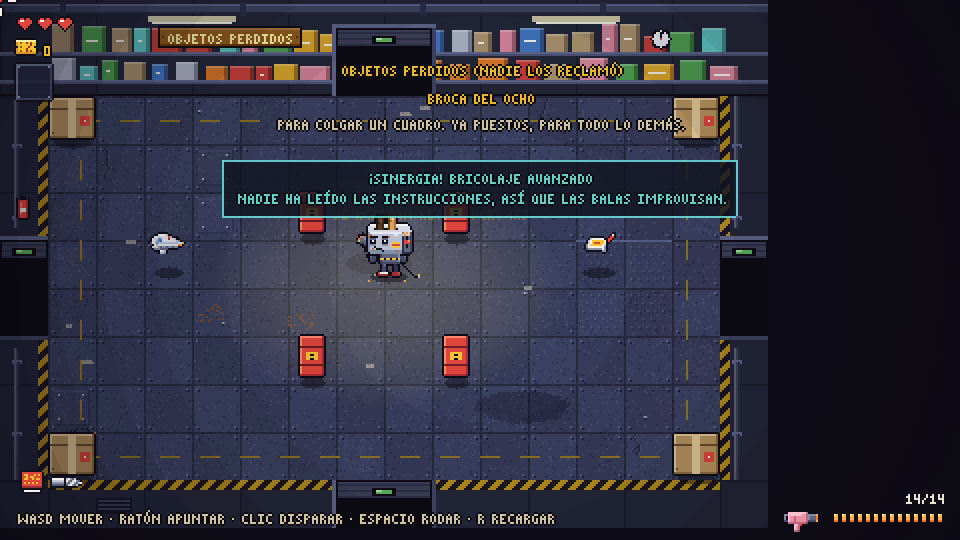
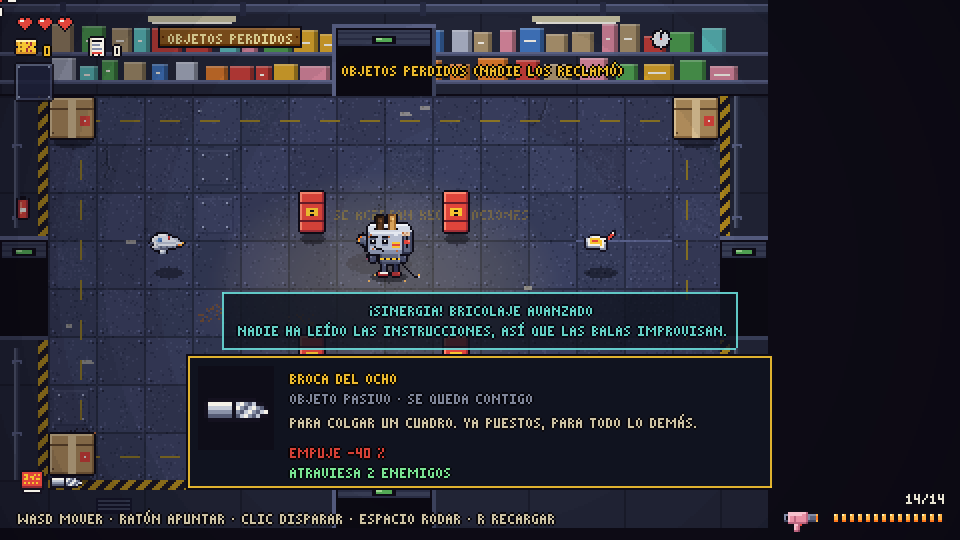
M5: ventana de descripción con lo que da y lo que quita cada objeto y los números de cada arma; M5 terminado; sesiones más largas (nota del humano)
Claude-Session: https://claude.ai/code/session_01LyCe1SFVh7Qnvzw655R3w9

diff --git a/src/render/GameScene.ts b/src/render/GameScene.ts
@@ -5,9 +5,10 @@ import { fontText, textWidth } from '../art/font.ts';
 import { CHEST_LOCKED_LINES, CHEST_NAME, CHEST_OPEN_LINES, SWAP_HINT, SYNERGY_LINE, TICKET_LINE, WEAPON_FOUND_LINES } from '../data/texts.ts';
 import { SYNERGIES } from '../data/synergies.ts';
 import { GOOD_NAMES, SHOPKEEPER } from '../data/shop.ts';
+import { activeLines, modifierLines, weaponLines, type EffectLine } from '../data/describe.ts';
 import { WEAPONS } from '../data/weapons.ts';
 import { ACTIVE_ITEMS, ITEMS } from '../data/items.ts';
-import { ACTIVE_LINES, activeHint, NO_CHARGE_LINE } from '../data/texts.ts';
+import { ACTIVE_LINES, ITEM_KIND_ACTIVE, ITEM_KIND_PASSIVE, ITEM_KIND_WEAPON, NO_CHARGE_LINE } from '../data/texts.ts';
 import { BOSS_CARD_SKIP, BOSS_CARD_SUBTITLE, BOSS_DOWN_LINE, BOSS_DOWN_STAMP, bossPhaseLabel, HEART_LINE, LIFT_LINE, WIN_HINT, WIN_STAMP, WIN_TITLE, winReport } from '../data/texts.ts';
 import { DEATH_STAMPS, DOORS_OPEN_LINES, DOWN_HINT, DOWN_STAMP, DOWN_TITLE, downReport, RESTOCK_LINE, TURBO_LINE } from '../data/texts.ts';
 import { doorCells } from '../sim/room.ts';
@@ -23,6 +24,23 @@ import { Controls } from './input.ts';
 import { addCanvasTexture, FONT, shadowTexture } from './textures.ts';
 
 export const VIEW_W = 480;
+
+/** The pieces of the description window (all HUD objects). */
+interface ItemCard {
+  plate: Phaser.GameObjects.Graphics;
+  icon: Phaser.GameObjects.Image;
+  name: Phaser.GameObjects.BitmapText;
+  kind: Phaser.GameObjects.BitmapText;
+  desc: Phaser.GameObjects.BitmapText;
+  lines: Phaser.GameObjects.BitmapText[];
+  /** Top and bottom of the window on screen while it is up (0 when it is not): the synergy plate goes next to it. */
+  top: number;
+  bottom: number;
+}
+
+/** Width of the description window, and the gap of its text column. */
+const CARD_W = 292;
+const CARD_TEXT_X = 50;
 
 /** How a pickup is drawn: its sprite and shadow, its name, and its price when it is for sale. */
 interface PickupView {
@@ -196,6 +214,8 @@ export class GameScene extends Phaser.Scene {
   /** A line the till says once the one it is saying ends. */
   private tillNext: string | null = null;
   private banner!: Phaser.GameObjects.BitmapText;
+  /** The description window that opens for a while when an item or a weapon is picked up. */
+  private card!: ItemCard;
   private shutters: Array<{ img: Phaser.GameObjects.Image; h: number }> = [];
   /** Red flash over the whole screen when hurt, and the heart that just broke. */
   private hurtFlash!: Phaser.GameObjects.Rectangle;
@@ -387,6 +407,16 @@ export class GameScene extends Phaser.Scene {
     this.banner = this.hud(this.add.bitmapText(VIEW_W / 2, 44, FONT, '', 8).setOrigin(0.5, 0));
     this.banner.setTint(0xf6c431).setAlpha(0);
     this.itemDesc = this.hud(this.add.bitmapText(VIEW_W / 2, 57, FONT, '', 8).setOrigin(0.5, 0).setCenterAlign().setMaxWidth(300)).setTint(0xd6cdb2).setAlpha(0);
+    this.card = {
+      plate: this.hud(this.add.graphics()).setAlpha(0),
+      icon: this.hud(this.add.image(0, 0, 'objeto-pila').setOrigin(0.5, 0.5).setScale(2)).setAlpha(0),
+      name: this.hud(this.add.bitmapText(0, 0, FONT, '', 8)).setTint(0xf6c431).setAlpha(0),
+      kind: this.hud(this.add.bitmapText(0, 0, FONT, '', 8)).setTint(0x858ea8).setAlpha(0),
+      desc: this.hud(this.add.bitmapText(0, 0, FONT, '', 8).setMaxWidth(CARD_W - CARD_TEXT_X - 8)).setTint(0xd6cdb2).setAlpha(0),
+      lines: Array.from({ length: 5 }, () => this.hud(this.add.bitmapText(0, 0, FONT, '', 8)).setAlpha(0)),
+      top: 0,
+      bottom: 0,
+    };
     this.synergyPlate = this.hud(this.add.rectangle(VIEW_W / 2, 80, 10, 10, 0x101420, 0.82).setOrigin(0.5, 0).setStrokeStyle(1, 0x69dbd8, 0.9)).setAlpha(0);
     this.synergyText = this.hud(this.add.bitmapText(VIEW_W / 2, 84, FONT, '', 8).setOrigin(0.5, 0).setCenterAlign().setMaxWidth(300)).setTint(0x69dbd8).setAlpha(0);
     this.itemIcons = [];
@@ -1284,6 +1314,8 @@ export class GameScene extends Phaser.Scene {
             this.sound2.play('arma');
             for (let i = 0; i < 12; i++) this.spark(e.x, e.y - 8, this.fx.range(0, Math.PI * 2), this.fx.range(40, 110), this.fx.int(0, 2));
             this.floatText(e.x, e.y - 22, fontText(this.fx.pick(WEAPON_FOUND_LINES)), 0xd6cdb2);
+            const wd = WEAPONS[e.weapon ?? ''];
+            if (wd) this.showCard(wd.look.sprite, wd.name, ITEM_KIND_WEAPON, wd.description, weaponLines(wd), 0xd6cdb2);
             if (e.total > 1 && !this.swapHinted) {
               this.swapHinted = true;
               this.hintT = 0;
@@ -1297,16 +1329,11 @@ export class GameScene extends Phaser.Scene {
           if (e.kind === 'objeto' || e.kind === 'activo') {
             // An item: a fanfare (a little higher than a weapon's), gold sparks, and its name and description up top.
             const act = e.kind === 'activo' ? ACTIVE_ITEMS[e.item ?? ''] : undefined;
-            const def = act ? { name: act.name, description: `${act.description}\n${activeHint(act.charges)}` } : ITEMS[e.item ?? ''];
+            const pas = e.kind === 'objeto' ? ITEMS[e.item ?? ''] : undefined;
             this.sound2.play('arma', { detune: 500 });
             for (let i = 0; i < 14; i++) this.spark(e.x, e.y - 8, this.fx.range(0, Math.PI * 2), this.fx.range(40, 110), 1);
-            if (def) {
-              this.tweens.killTweensOf(this.banner);
-              this.tweens.killTweensOf(this.itemDesc);
-              this.banner.setText(fontText(def.name)).setTint(0xf6c431).setAlpha(1);
-              this.itemDesc.setText(fontText(def.description)).setAlpha(1);
-              this.tweens.add({ targets: [this.banner, this.itemDesc], alpha: 0, delay: 3400, duration: 600 });
-            }
+            if (act) this.showCard(act.sprite, act.name, ITEM_KIND_ACTIVE, act.description, activeLines(act), 0x69dbd8);
+            else if (pas) this.showCard(pas.sprite, pas.name, ITEM_KIND_PASSIVE, pas.description, modifierLines(pas.mod), 0xf6c431);
             break;
           }
           this.couponPop = 0.25;
@@ -1528,6 +1555,13 @@ export class GameScene extends Phaser.Scene {
     this.tweens.killTweensOf([this.synergyText, this.synergyPlate]);
     this.synergyText.setText(fontText(`${SYNERGY_LINE} ${def.name}\n${def.text}`)).setAlpha(1);
     const b = this.synergyText.getTextBounds(true).global;
+    // Next to the description window if it is up (it usually is: the synergy came with an item):
+    // under it when it is up top, over it when it is down below.
+    const c = this.card;
+    const ph = Math.ceil(b.height) + 8;
+    const sy = c.bottom === 0 ? 80 : c.top <= 40 ? c.bottom + 4 : c.top - 4 - ph;
+    this.synergyPlate.setY(sy);
+    this.synergyText.setY(sy + 4);
     this.synergyPlate.setSize(Math.ceil(b.width) + 12, Math.ceil(b.height) + 8).setOrigin(0.5, 0).setAlpha(1);
     this.tweens.add({ targets: [this.synergyText, this.synergyPlate], alpha: 0, delay: 4600, duration: 700 });
   }
@@ -1687,6 +1721,55 @@ export class GameScene extends Phaser.Scene {
       fade: false,
       anim: { key: 'polvo', frames: 4, fps: 4 / life },
     });
+  }
+
+  /**
+   * Opens the description window: the sprite at double size on the left; the name, what kind of
+   * thing it is, its description and what it does (green what it gives, red what it takes) on
+   * the right, on a dark plate edged in `edge`. It stays up a few seconds (longer with more to
+   * read) and fades; a new one replaces it.
+   */
+  private showCard(sprite: string, name: string, kind: string, description: string, effects: EffectLine[], edge: number): void {
+    const c = this.card;
+    const parts = [c.plate, c.icon, c.name, c.kind, c.desc, ...c.lines];
+    this.tweens.killTweensOf(parts);
+    // The old banner would say the same thing on top of it.
+    this.tweens.killTweensOf([this.banner, this.itemDesc]);
+    this.banner.setAlpha(0);
+    this.itemDesc.setAlpha(0);
+    const x0 = Math.round((VIEW_W - CARD_W) / 2);
+    const tx = x0 + CARD_TEXT_X;
+    c.desc.setText(fontText(description));
+    const descH = Math.ceil(c.desc.getTextBounds(true).global.height);
+    const h = Math.max(48, 28 + descH + 5 + effects.length * 10 + 3);
+    // Up top, unless the toaster is in the top half of the screen: then down below, out of its way.
+    const p = this.world.player;
+    const high = p.y - this.cameras.main.scrollY < VIEW_H / 2 + 10;
+    const y0 = high ? VIEW_H - 26 - h : 40;
+    c.name.setText(fontText(name)).setPosition(tx, y0 + 6);
+    c.kind.setText(fontText(kind)).setPosition(tx, y0 + 16);
+    c.desc.setPosition(tx, y0 + 28);
+    let y = y0 + 28 + descH + 5;
+    c.lines.forEach((t, i) => {
+      const l = effects[i];
+      t.setText(l ? fontText(l.text) : '').setPosition(tx, y).setTint(l?.good ? 0x7ef0a0 : 0xe0453b);
+      if (l) y += 10;
+    });
+    c.icon.setTexture(sprite).setPosition(x0 + 24, y0 + Math.min(h, 52) / 2 + 1);
+    c.plate.clear();
+    c.plate.fillStyle(0x0e0c16, 1).fillRect(x0 - 1, y0 - 1, CARD_W + 2, h + 2);
+    c.plate.fillStyle(0x101420, 0.92).fillRect(x0, y0, CARD_W, h);
+    c.plate.lineStyle(1, edge, 0.9).strokeRect(x0 + 0.5, y0 + 0.5, CARD_W - 1, h - 1);
+    // The icon sits in a darker well.
+    c.plate.fillStyle(0x0e0c16, 0.8).fillRect(x0 + 5, y0 + 5, 38, Math.min(h, 52) - 10);
+    c.top = y0;
+    c.bottom = y0 + h;
+    for (const o of parts) o.setAlpha(1);
+    const words = description.split(' ').length + effects.length * 3;
+    this.tweens.add({ targets: parts, alpha: 0, delay: Math.min(6500, 2600 + words * 110), duration: 600, onComplete: () => {
+      c.top = 0;
+      c.bottom = 0;
+    } });
   }
 
   /**

diff --git a/src/data/describe.ts b/src/data/describe.ts
@@ -1,0 +1,77 @@
+// What an item or a weapon does, as short lines for the description window (and, later, the
+// inventory). Each line says whether it is good or bad for the player, so the window can colour
+// it: almost every item gives something and takes something.
+import { activeHint } from './texts.ts';
+import type { ActiveItemDef, Modifier, StatKey, WeaponDef } from './types.ts';
+
+export interface EffectLine {
+  text: string;
+  good: boolean;
+}
+
+/** Name of each stat, and whether more of it is better. */
+const STATS: Record<StatKey, { name: string; more: boolean }> = {
+  damage: { name: 'Daño', more: true },
+  fireRate: { name: 'Cadencia', more: true },
+  magazine: { name: 'Cargador', more: true },
+  reloadTime: { name: 'Tiempo de recarga', more: false },
+  spreadDeg: { name: 'Dispersión', more: false },
+  bulletSpeed: { name: 'Velocidad de bala', more: true },
+  bulletLife: { name: 'Alcance', more: true },
+  bulletRadius: { name: 'Tamaño de bala', more: true },
+  knockback: { name: 'Empuje', more: true },
+  recoil: { name: 'Retroceso', more: false },
+  pellets: { name: 'Balas por disparo', more: true },
+  speed: { name: 'Velocidad', more: true },
+  maxHp: { name: 'Vida máxima', more: true },
+  rollCooldown: { name: 'Espera entre volteretas', more: false },
+};
+
+const signed = (n: number): string => (n > 0 ? `+${n}` : `${n}`);
+
+/** One line per stat change and per bullet behaviour, in the order the modifier lists them. */
+export function modifierLines(m: Modifier): EffectLine[] {
+  const out: EffectLine[] = [];
+  for (const c of m.stats ?? []) {
+    const s = STATS[c.stat];
+    if (c.add !== undefined && c.add !== 0) {
+      // Life goes in halves of a heart.
+      const text = c.stat === 'maxHp' ? `${signed(c.add / 2)} ${Math.abs(c.add) === 2 ? 'corazón' : 'corazones'}` : `${s.name} ${signed(c.add)}`;
+      out.push({ text, good: c.add > 0 === s.more });
+    }
+    if (c.mul !== undefined && c.mul !== 1) {
+      const pct = Math.round((c.mul - 1) * 100);
+      out.push({ text: `${s.name} ${signed(pct)} %`, good: c.mul > 1 === s.more });
+    }
+  }
+  const b = m.bullets;
+  if (b?.pierce) out.push({ text: `Atraviesa ${b.pierce} ${b.pierce === 1 ? 'enemigo' : 'enemigos'}`, good: true });
+  if (b?.bounce) out.push({ text: `Rebota ${b.bounce} ${b.bounce === 1 ? 'vez' : 'veces'}`, good: true });
+  if (b?.homing) out.push({ text: 'Balas que persiguen', good: true });
+  return out;
+}
+
+/** What an active item does, and what it costs to use. */
+export function activeLines(a: ActiveItemDef): EffectLine[] {
+  const e = a.effect;
+  let what: string;
+  if (e.type === 'clearFire') what = 'Borra las balas enemigas';
+  else if (e.type === 'hold') what = `Congela la sala ${String(e.seconds).replace('.', ',')} s`;
+  else what = `Cura ${e.amount / 2} ${e.amount === 2 ? 'corazón' : 'corazones'}`;
+  return [
+    { text: what, good: true },
+    { text: activeHint(a.charges), good: true },
+  ];
+}
+
+const round1 = (n: number): string => String(Math.round(n * 10) / 10).replace('.', ',');
+
+/** A weapon's numbers, so the differences between weapons can be read. */
+export function weaponLines(w: WeaponDef): EffectLine[] {
+  const shots = w.pellets > 1 ? ` × ${w.pellets}` : '';
+  const range = Math.round((w.bulletSpeed * w.bulletLife) / 10) * 10;
+  return [
+    { text: `Daño ${w.damage}${shots} · ${round1(w.fireRate)} disparos/s`, good: true },
+    { text: `Cargador ${w.magazine} · recarga ${round1(w.reloadTime)} s · alcance ${range}`, good: true },
+  ];
+}

diff --git a/tests/descripcion.test.ts b/tests/descripcion.test.ts
@@ -1,0 +1,56 @@
+import { test } from 'node:test';
+import assert from 'node:assert/strict';
+import { activeLines, modifierLines, weaponLines } from '../src/data/describe.ts';
+import { ACTIVE_ITEMS, ITEMS } from '../src/data/items.ts';
+import { FINDABLE_WEAPONS, WEAPONS } from '../src/data/weapons.ts';
+import { SYNERGIES } from '../src/data/synergies.ts';
+import { FONT_CHARS, fontText, textWidth } from '../src/art/font.ts';
+
+const glyphs = new Set([...FONT_CHARS, ' ', '\n']);
+
+/** Every line can be drawn with «Letra Pequeña» and fits in the window. */
+function drawable(text: string): void {
+  for (const ch of fontText(text)) assert.ok(glyphs.has(ch), `«${text}»: la fuente no tiene «${ch}»`);
+  assert.ok(textWidth(text) <= 250, `«${text}» no cabe en la ventana (${textWidth(text)} px)`);
+}
+
+test('cada objeto pasivo dice lo que hace, y lo que da y lo que quita va con su color', () => {
+  for (const it of Object.values(ITEMS)) {
+    const lines = modifierLines(it.mod);
+    assert.ok(lines.length > 0, `${it.id} no dice nada`);
+    for (const l of lines) drawable(l.text);
+  }
+  assert.deepEqual(modifierLines(ITEMS.pila!.mod), [
+    { text: 'Cadencia +30 %', good: true },
+    { text: 'Cargador -30 %', good: false },
+  ]);
+  assert.deepEqual(modifierLines(ITEMS.garantia!.mod), [{ text: '+1 corazón', good: true }]);
+  assert.deepEqual(modifierLines(ITEMS.cinta!.mod), [{ text: 'Tiempo de recarga -40 %', good: true }]);
+  assert.deepEqual(modifierLines(ITEMS.manual!.mod), [{ text: 'Rebota 2 veces', good: true }]);
+  const res = modifierLines(ITEMS.resistencia!.mod);
+  assert.ok(res.some((l) => l.text === 'Daño +1' && l.good));
+  assert.ok(res.some((l) => l.text === 'Cadencia -30 %' && !l.good));
+  assert.ok(res.some((l) => l.text === 'Retroceso +40 %' && !l.good), 'más retroceso es peor');
+  assert.ok(modifierLines(ITEMS.etiqueta!.mod).every((l) => l.good), 'algunos objetos solo son buenos');
+});
+
+test('las sinergias y los objetos activos también se pueden describir', () => {
+  for (const s of Object.values(SYNERGIES)) for (const l of modifierLines(s.mod)) drawable(l.text);
+  for (const a of Object.values(ACTIVE_ITEMS)) {
+    const lines = activeLines(a);
+    assert.ok(lines[1]!.text.includes(String(a.charges)), 'dice cuántas pilas necesita');
+    for (const l of lines) drawable(l.text);
+  }
+  assert.equal(activeLines(ACTIVE_ITEMS.espera!)[0]!.text, 'Congela la sala 3,5 s');
+});
+
+test('las armas enseñan sus números, y son distintos entre sí', () => {
+  const seen = new Set<string>();
+  for (const id of FINDABLE_WEAPONS) {
+    const lines = weaponLines(WEAPONS[id]!);
+    for (const l of lines) drawable(l.text);
+    seen.add(lines.map((l) => l.text).join('|'));
+  }
+  assert.equal(seen.size, FINDABLE_WEAPONS.length);
+  assert.ok(weaponLines(WEAPONS.plancha!)[0]!.text.includes('×'), 'la plancha dice que dispara varias nubes');
+});

diff --git a/src/data/texts.ts b/src/data/texts.ts
@@ -202,3 +202,8 @@ export const CHEST_OPEN_LINES: readonly string[] = [
   'Abierto por el cliente: no admite cambios',
   'Ticket sellado y archivado',
 ];
+
+/** Second line of the description window: what kind of thing was picked up. */
+export const ITEM_KIND_PASSIVE = 'Objeto pasivo · se queda contigo';
+export const ITEM_KIND_ACTIVE = 'Objeto activo · se usa con Q';
+export const ITEM_KIND_WEAPON = 'Arma · E o rueda para cambiar';

diff --git a/docs/BITACORA.md b/docs/BITACORA.md
@@ -2,6 +2,16 @@
 
 La entrada más reciente va arriba. Cada sesión añade una.
 
+## 2026-10-29 12:10 — Hito M5 — Ventana de descripción (M5 terminado)
+
+- Hecho: `src/data/describe.ts`, puro y probado: `modifierLines` convierte un modificador en líneas con su color (`{ text, good }`: «Cadencia +30 %», «Cargador -30 %», «+1 corazón», «Rebota 2 veces», «Atraviesa 2 enemigos», «Balas que persiguen»), sabiendo si más es mejor o peor para cada estadística (más retroceso, dispersión, tiempo de recarga o espera entre volteretas es peor); `activeLines` (qué hace y cuántas pilas pide) y `weaponLines` (daño, disparos por segundo, cargador, recarga y alcance). En el juego, `showCard`: ventana oscura de 292 px con el borde del color del tipo (dorado pasivo, cian activo, crema arma), el sprite a doble tamaño en un hueco a la izquierda, nombre, tipo («Objeto pasivo · se queda contigo», «Objeto activo · se usa con Q», «Arma · E o rueda para cambiar»), descripción y efectos en verde o rojo. Dura de 2,6 a 6,5 s según lo que haya que leer y se desvanece; una nueva la sustituye. Sale arriba, salvo si la tostadora está en la mitad de arriba de la pantalla (como al coger del pedestal del tesoro): entonces sale abajo. La placa de las sinergias se pone pegada a ella (debajo o encima). Sustituye al cartel suelto de nombre y descripción. Test nuevo `tests/descripcion.test.ts` (3: líneas y colores de varios objetos, que todo se puede escribir con la fuente y cabe, sinergias y activos, y que las armas enseñan números distintos).
+- M5 terminado: sus criterios se cumplen (cada objeto tiene un test de su efecto en `tests/objetos.test.ts`; el bot acaba con 19 builds distintas en 20 plantas). Hoja de ruta y estimación actualizadas (145 sesiones, ~189 con margen; quedan unas 10 para la primera versión jugable).
+- Atendida la nota del humano «sesiones de trabajo más largas (sin perder calidad)»: el paso 7 de `AUTOPILOT.md` dice ahora que se encadenan tareas mientras quede contexto, cerrando cada una con tests, capturas, bitácora y push, y que se para cuando la calidad se resienta. Es una regla del protocolo que había que cambiar por petición del humano.
+- Decisiones: los efectos salen de los datos del modificador y no de un texto escrito a mano, para que nunca mientan y para reutilizarlos en el inventario de M6 (que pide «lo que suma o resta cada objeto»). Porcentajes redondeados y con «-» normal (la fuente no tiene «−» ni «°»: la dispersión sale sin unidad). La ventana cambia de sitio en vez de hacerse transparente: así no tapa nunca la tostadora y se sigue leyendo entera.
+- Medidas: sin cambios de simulación (bot igual que en la entrada anterior).
+- Problemas conocidos: las tres armas hacen 1 de daño; la ventana lo deja a la vista (las diferencias reales de daño son tarea de M7). El título de la sala del tesoro queda justo encima de la ventana cuando sale arriba (se tocan, pero se leen).
+- Siguiente paso: M6, empezando por la pausa y las opciones.
+
 ## 2026-10-29 11:40 — Hito M5 — La tienda
 
 - Hecho: la tienda vende. Datos nuevos en `src/data/shop.ts`: precios (`SHOP_PRICES`: objeto 15, activo 12, arma 18, corazón 6, ticket 8), qué lleva cada balda (`SHOP_SHELVES`: objeto, corazón, ticket) y los textos del vendedor. Simulación: `Pickup.price` (y `touched`); `stockShop` llena las baldas (`s`) la primera vez que se entra en la tienda de una planta (o al abrir `?sala=tienda`), y el objeto sale de la misma baraja que tesoro y cofres (no se repite en la planta). Lo que está a la venta no se mueve ni lo atrae el imán; andando encima (rodando no) se compra si llega: cobra, evento `shop` (`bought`) y se entrega como si se cogiera del suelo (función `grab`). Si no llega (`poor`) o es un corazón con la vida llena (`full`), evento `shop` una sola vez por pisada. **Vendedor: la Caja de Autocobro**, prop sólido `autocobro` que `buildRoom` pone en la casilla `$`. Sprites nuevos: `autocobro` (30 × 36, 3 fotogramas: sonrisa, hablando y pantalla roja con «X X»; escáner con su raya roja, ranura de tarjeta y de cupones, un tique larguísimo hasta el suelo, la luz de «llame a un empleado» y una bolsa triste en la zona de embolsado) y `expositor` (peana bajo cada balda con franja roja). En pantalla: precio con un cupón bajo cada expositor (dorado si llega, gris si no), nombre al acercarse (también «Corazón de Recambio» y «Ticket de Compra»), bocadillo de la caja al entrar («Bienvenido. Escanee sus productos. Yo le miro.»), al comprar («Objeto inesperado en la zona de embolsado.») y al negarse («Saldo insuficiente. Pruebe a tener más.»), con la boca de la pantalla moviéndose; al vaciar las baldas, «Agotado. Repondremos cuando sea rentable.». Sonidos nuevos `escaner` (doble pitido) y `cajaError`. El contador de cupones tiembla en rojo cuando no llega. Bot: compra lo que puede pagar (objeto, luego corazón si le faltan 2 medios, luego ticket; un activo solo si no lleva) y `npm run bot` cuenta compras y gasto. Test nuevo `tests/tienda.test.ts` (7). e2e: capturas `24a`–`24c`.

diff --git a/docs/HOJA_DE_RUTA.md b/docs/HOJA_DE_RUTA.md
@@ -6,7 +6,7 @@ ampliar. Cuando se acabe la lista, Claude escribe hitos nuevos al final.
 
 Estados: `- [ ]` pendiente · `- [x]` hecha.
 
-## Estimación de tiempo (revisada el 2026-10-29, 10:45)
+## Estimación de tiempo (revisada el 2026-10-29, 12:10)
 
 Cuento en **sesiones de trabajo** (cada una cierra una tarea, a veces dos). Ritmo medido: entre
 el 28 y el 29 de octubre se cerraron 47 tareas (M0–M4 y medio M5) en unas 33 sesiones. Las
@@ -16,7 +16,7 @@ muestra junto a cada hito; si un hito se desvía mucho, se corrige aquí y allí
 
 | Hito | Sesiones | Por qué |
 | --- | ---: | --- |
-| M5 · Armas, objetos y sinergias (lo que queda) | 2 | La tienda y la ventana de descripción |
+| M5 · Armas, objetos y sinergias | hecho | Terminado el 29 a las 12:10 |
 | M6 · Partida completa | 10 | Menús, pantallas, guardado, dos pistas de música, inventario e interfaz limpia |
 | M7 · Pulido | 13 | Equilibrio (dificultad media-alta), armas y objetos, y animaciones de todos los enemigos |
 | M8 · Planta 2: Informática | 13 | Casillas 1, entornos 1, enemigos 4, jefe 5 (como la Nevera), objetos 2 |
@@ -27,7 +27,7 @@ muestra junto a cada hito; si un hito se desvía mucho, se corrige aquí y allí
 | M13 · Cinco personajes | 14 | Cuatro personajes nuevos con arma, habilidad, historia y final |
 | M14 · Más contenido | 30 | De ~5 armas, ~50 objetos y ~22 enemigos a 30/80/30, más 2 jefes |
 | M15 · Escritorio | 6 | Empaquetado, guardado en disco y flujo de instaladores |
-| **Total** | **147** | **~191 con un 30 % de margen** (arreglos, notas del humano, sorpresas) |
+| **Total** | **145** | **~189 con un 30 % de margen** (arreglos, notas del humano, sorpresas) |
 
 En calendario: con una sesión por hora sin parones, la primera versión jugable (M6) llegaría en
 medio día o un día, la versión pulida (M7) en uno o dos días y el juego completo con escritorio
@@ -118,7 +118,7 @@ prueba aparte) sin atascarse.*
 **Criterios de aceptación:** el combate dura entre 60 y 120 s para el bot; las dos fases se
 distinguen claramente en las capturas.
 
-## M5 · Armas, objetos y sinergias
+## M5 · Armas, objetos y sinergias (hecho)
 
 - [x] Sistema de modificadores de estadísticas y de comportamiento de balas.
 - [x] 3 armas (Secador Mágnum, Grapadora Táctica y una nueva).
@@ -127,7 +127,7 @@ distinguen claramente en las capturas.
 - [x] Al menos 4 sinergias con texto propio.
 - [x] Cofres que se abren con tickets (la Caja Fuerte de Devoluciones; los tickets salen al limpiar salas).
 - [x] Tienda con vendedor y precios en cupones (también vende tickets).
-- [ ] Ventana de descripción al recoger un objeto.
+- [x] Ventana de descripción al recoger un objeto.
 
 **Criterios de aceptación:** cada objeto tiene un test de su efecto; las partidas del bot con
 semillas distintas acaban con builds distintas.

diff --git a/docs/NOTAS_DEL_HUMANO.md b/docs/NOTAS_DEL_HUMANO.md
@@ -22,4 +22,5 @@ Ejemplo:
 - [atendida] 2026-10-29 Todo esto que te escribo son cosas generales para mas adelante, quiero que haya objetos pasivos no solo den mejoras, por ejemplo un objeto que mejore el daño y la velocidad de disparo pero baje la velocidad de disparo (esto no tiene que aplicarse a todos los objetos algunos pueden ser solo buenos), tambien quiero un menu en el que ver los objetos que tienes estadisticas etc, asegurate de que el juego tenga una interfaz mas o menos limpia, tambien quiero que te asegures de que el juego este balanceado, tenga armas con diferencias de daño o velocidad reales y que en general sea un juego tirando a una dificultad media-alta, que sea dificil de verdad pasar de el 3 piso, asegurate tambien de que los entornos del juego esten bien diseñados manteniendo la generacion procedural.
   → Apuntado para cuando toque: inventario con estadísticas e interfaz limpia en M6; dificultad media-alta, armas con diferencias medidas y repaso de objetos en M7; entornos mejor diseñados (plantillas con variantes) en M8; y en M10, que pasar de la planta 3 sea difícil de verdad. Los objetos pasivos ya dan y quitan casi todos (la Pila sube la cadencia y baja el cargador, la Resistencia sube el daño y baja la cadencia). Todo resumido en «Pautas del humano» de `docs/DISENO.md`.
 
-2026-10-29 Quiero que hagas sesiones de trabajo mas largas (sin perder calidad)
+- [atendida] 2026-10-29 Quiero que hagas sesiones de trabajo mas largas (sin perder calidad)
+  → `AUTOPILOT.md` (paso 7) dice ahora que cada sesión encadena tareas mientras le quede contexto, cerrando cada una con tests, capturas, bitácora y push. Esta misma sesión ya ha hecho la tienda, la ventana de descripción (M5 terminado) y sigue con M6.

diff --git a/AUTOPILOT.md b/AUTOPILOT.md
@@ -75,6 +75,9 @@ actualizan desde `main`. Si el push falla porque alguien empujó antes, haz
 
 ## 7. ¿Te queda tiempo y contexto?
 
-Si la sesión sigue teniendo margen, vuelve al paso 3 con otra tarea. Para cuando notes que el
-contexto se llena o lleves unas tres tareas: es mejor cerrar limpio y que la próxima sesión
-empiece fresca.
+Las sesiones tienen que ser **largas** (nota del humano del 2026-10-29): cuando termines una
+tarea y la hayas publicado (paso 6), vuelve al paso 3 con la siguiente, y así mientras te quede
+contexto. Cada tarea se cierra igual que la primera: tests, capturas si es visual, `check`,
+`test`, `build` y `bot` en verde, su entrada en la bitácora y su commit y push. La calidad no
+baja por ir más deprisa: si notas que el contexto se llena, que empiezas a saltarte pasos o que
+las capturas ya no las miras con calma, cierra limpio y deja que la próxima sesión empiece fresca.
